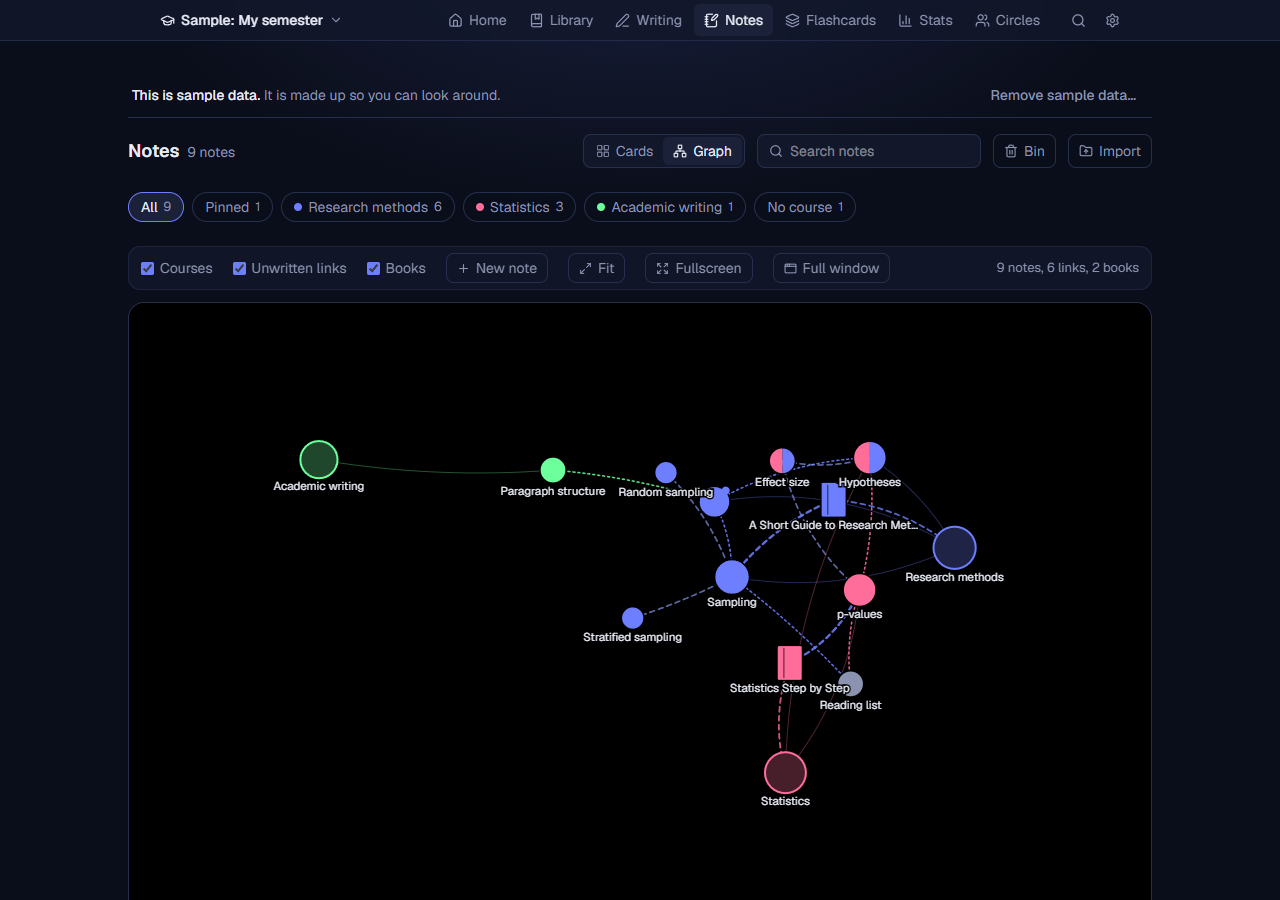
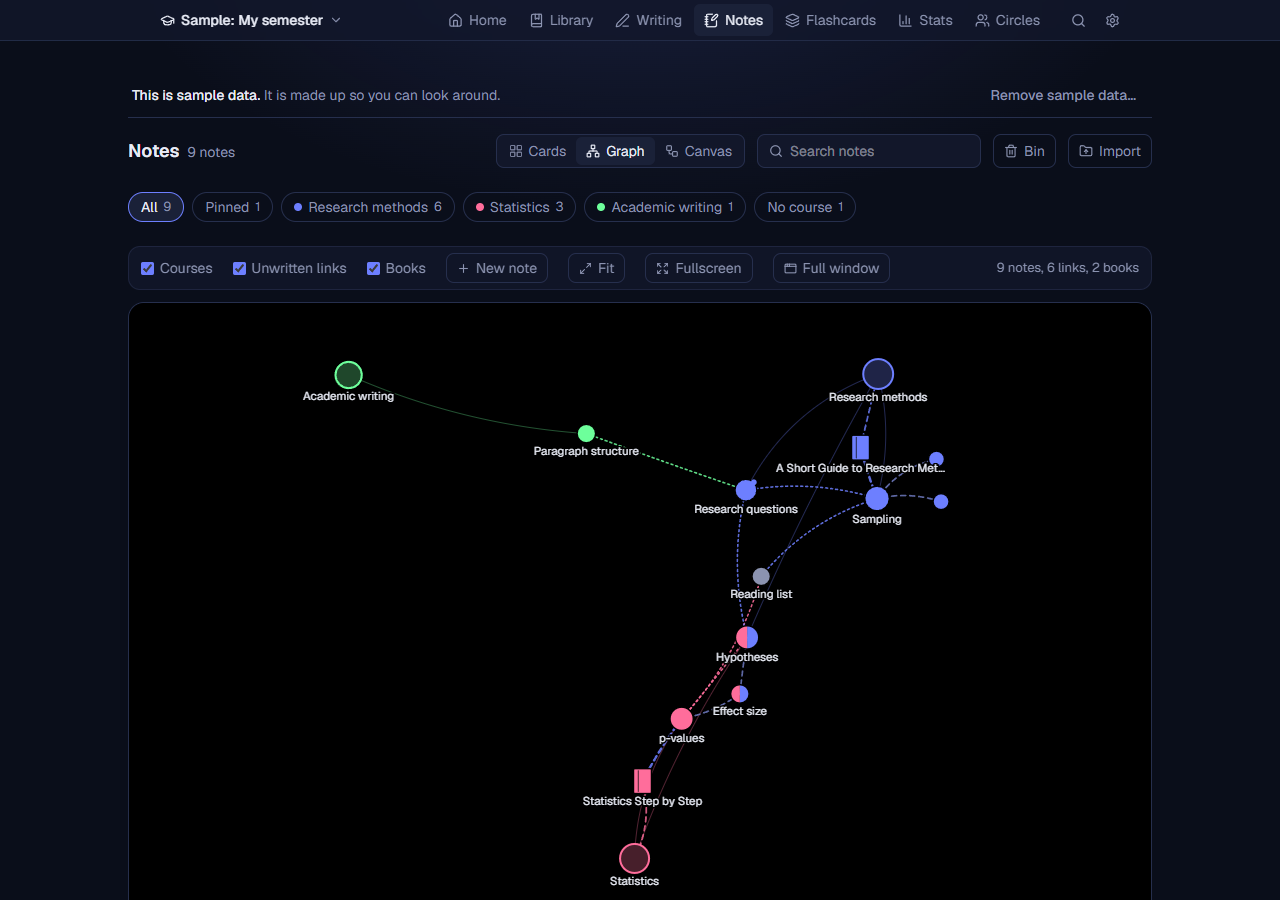
Update the site

diff --git a/docs/manual.html b/docs/manual.html
@@ -23,7 +23,7 @@
   </header>
 
   <h1>The full user manual</h1>
-  <p class="lead">Everything Voynich does, part by part. New here? Start with <a href="guide.html">Getting started in ten minutes</a>. This manual describes version 0.70.3; later versions may add things, and Settings, About and updates lists what changed.</p>
+  <p class="lead">Everything Voynich does, part by part. New here? Start with <a href="guide.html">Getting started in ten minutes</a>. This manual describes version 0.71.0; later versions may add things, and Settings, About and updates lists what changed.</p>
 
   <div class="layout">
     <nav class="toc" aria-label="Contents">
@@ -289,6 +289,9 @@
           <li><strong>New notes from the graph.</strong> <em>New note</em> beside <em>Fit</em>, the <kbd>N</kbd> key, or a double-click on empty space opens the panel with an empty editor. <em>Add note</em> in a dot&rsquo;s bubble starts it already under that note, about that book, or in that course. Nothing is saved until you press <em>Add note</em>; the new note&rsquo;s dot is then selected and brought to the middle.</li>
           <li><strong>Full window</strong> (next to Fullscreen) makes the graph fill this browser window, without taking over the screen. It is for people who keep Voynich in a smaller window beside other things. The tick boxes and Fit come along, <kbd>Esc</kbd> leaves it, and <em>Open note</em> leaves it before showing the note. It works together with Fullscreen.</li>
           <li><strong>Fullscreen</strong> (when your browser allows it) gives the graph the whole screen. <kbd>Esc</kbd> leaves it.</li>
+          <li><strong>Each course has a home of its own.</strong> The courses sit round a ring, each with room for its notes, and a note is drawn to its course&rsquo;s home (a note in two courses between the two). Choosing one course above the graph, then <em>All</em>, moves nothing: the picture only shows and hides, so two courses never fall into each other. A note with no course sits in the middle of the ring. The first time the graph opens after 0.71 it lays everything out once in this way.</li>
+          <li><strong>Zoomed out, courses are named clouds.</strong> Below about three quarters of the full size, each course becomes a soft cloud in its colour with its name and number of notes, and the notes&rsquo; own names step aside until you zoom in again. A name that would cover a bigger course&rsquo;s name is left out.</li>
+          <li><strong>Loose ends</strong>, under the graph, lists the notes joined to nothing (no link either way, not under a note, nothing under them, not about a book) and the books nothing is written about (no note about them and no document citing them). Each opens with a click. It is not shown when there are none.</li>
           <li><strong>The picture stays as you left it.</strong> Voynich remembers where each dot is (the same in every browser you use), so the graph looks the same every time you open it, and a dot you move stays where it comes to rest. A new note appears next to what it is connected to. A dot is never left sitting on a line it is not part of: it is moved just off it. Pressing and holding a dot moves nothing; dragging it makes the others step aside, and everything comes to rest as soon as you stop moving. Names that would cover each other are not all written when the picture is zoomed out: the selected dot and what it touches, courses, books and the busiest notes come first, and the rest appear as you zoom in. Changing how hard the lines pull (Customise) lays everything out again.</li>
           <li><strong>Four kinds of line for being under something.</strong> A dashed line runs from a book to the course it is under, from a note to the book it is about, and from a note to each note it is under. It pulls the lower dot close, so what is under something gathers around it, and it has a look of its own by how far down it is, so that you can tell the levels apart. A <em>primary note</em> is one about a book (or a note with nothing above it), a <em>secondary note</em> is under a primary note, and a <em>tertiary note</em> is under a secondary note, or anywhere further down. The four lines, from the top: <strong>subfield and book</strong> (dashed, in the course&rsquo;s colour), <strong>book and primary note</strong> (heavy dashed, in the theme&rsquo;s accent colour), <strong>primary and secondary note</strong> (dashed, the accent half faded) and <strong>secondary and tertiary note</strong> (thin dashed, grey). A dashed line is always the hierarchy: a <strong>[[link]]</strong> is a dotted line in the colour of a course the two notes share (or else the first note&rsquo;s course; orange when neither has one), and a note in a course has a thin solid line in the course&rsquo;s colour. In a light theme these automatic colours are darkened as much as needed to stay easy to see. None has an arrowhead until you switch it on in Customise. A note has a line to a course only for the courses you gave it yourself; it reaches the others through what is above it. If a [[link]] also joins two notes, they share that one line. A book that is only connected to its course has a plain thin line in the course&rsquo;s colour instead. Arrowheads, pointing at the one above, can be switched on in Customise.</li>
           <li><strong>Put under...</strong> (next to <em>Connect to...</em> when a note or a book is selected) puts it under the note, book or course you click next: a note goes under a note or a book, a book goes under a course. The shortcut: hold <kbd>Alt</kbd> and drag the note or book onto what it goes under (for a book and a course, <em>Connect to...</em> and <kbd>Shift</kbd>-drag make a normal connection). See <a href="#shortcuts">Shortcuts</a> for one for each kind of line. Select an under line and press <em>Disconnect</em> to take a note out from under another, or a book out of its course.</li>
@@ -297,6 +300,18 @@
           <li>A connection can carry a short <strong>comment</strong> that keeps its history, so you can write why two notes belong together. The comment is written along the line, tilted with it and cut with &ldquo;...&rdquo; to fit between the two dots; select the line to read it in full. A changed or removed comment can be brought back with <em>Restore</em>.</li>
           <li>In Settings, <em>Notes</em>, <em>Notes graph</em>, you can choose the shape of each kind of dot and how the graph moves (it follows your computer&rsquo;s &ldquo;reduce motion&rdquo; setting by default).</li>
           <li><strong>Customise</strong>, in the same place, starts closed and is optional. For every kind of line, listed from the most important (it pulls hardest) to the least: subfield and book, book and primary, primary and secondary, secondary and tertiary, links, note and subfield, and suggestions, you can set its style (solid, dashed or dotted), width, colour, opacity and strength (how hard it pulls its two dots together), and for the four lines for being under something whether they have an arrowhead (off to begin with); for every kind of dot its fill colour and opacity and its border colour and width; and the general pull: <em>Spread</em> (how hard dots push apart) and <em>Centre</em> (how hard everything is pulled to the middle). <em>Background</em> sets the picture&rsquo;s background: automatically it is pitch black in a dark theme (so the dots and lines stand out from it) and the theme&rsquo;s own in a light one. <em>Automatic</em> keeps the colour the graph picks itself, such as a course&rsquo;s colour. A line still lights up when its dot is selected and fades when another is. <strong>Back to the defaults</strong> brings back the usual look. The choices are kept in this browser and used in every room.</li>
+        </ul>
+        <h3 id="around">Around this note</h3>
+        <p>An open note card (click a card in Grid or List, or any card in Full text) shows <strong>Around this note</strong> under its text: a small picture of the notes it is joined to (its links, the notes that link to it, the notes it is under and those under it) round it, and theirs further out. It is the same picture every time. Click a dot to open that note. A note joined to many shows the ten nearest and says how many more there are.</p>
+        <h3 id="canvas">The canvas</h3>
+        <p>Press <strong>Canvas</strong> (beside <em>Cards</em> and <em>Graph</em>) for boards of your own: a canvas is a page where you put notes, books and your own words by hand, wherever you like, and draw lines between them with words on the lines (a concept map: the plan of an essay, the parts of a theory). Unlike the graph, nothing on it moves by itself.</p>
+        <ul>
+          <li><strong>New canvas</strong> makes one and asks its name; the list beside it switches between a room&rsquo;s canvases, and the last one you looked at opens next time. <em>Rename</em> and <em>Delete</em> are beside it. Deleting a canvas removes only the board and its lines, never the notes or books on it.</li>
+          <li><strong>Add a note or a book</strong>: type part of its title and pick it. <strong>Add words</strong> puts words of your own on the board. Each lands in the middle of what you see.</li>
+          <li><strong>Drag</strong> a thing to move it, drag the empty board to move around, and use the mouse wheel or the <em>+</em> and <em>&minus;</em> buttons to zoom.</li>
+          <li>Click a thing to select it, then <strong>Join to&hellip;</strong> and click another to draw a line between them (<kbd>Esc</kbd> stops). Click a line to select it: <strong>Write on the line</strong> puts words on it, <em>Remove the line</em> takes it away. Words of your own can be changed with <em>Edit words</em>.</li>
+          <li><strong>Take off</strong> (or <kbd>Delete</kbd>) takes the selected thing off the canvas with its lines. A double-click on a note or a book opens it. A note or book deleted from the room stays on the board, greyed, as gone.</li>
+          <li>Canvases are kept with the rest of the room: in the backups, in Download everything, and they go when the room is deleted. Flashcards cannot be put on a canvas yet.</li>
         </ul>
         <figure class="shot"><a class="zoom" href="img/graph-fullscreen.png"><img src="img/graph-fullscreen.png" width="1280" height="800" alt="The notes graph in Full window on a black background, with a bubble beside the clicked note Research questions (buttons Open note, Go to card, Connect to, Add note, Put under and Clear) and the whole note open in a panel at the right." loading="lazy"></a><figcaption>Full window: a clicked note's details in a bubble beside its dot, and Open note shows the note in the panel at the right.</figcaption></figure>
 
